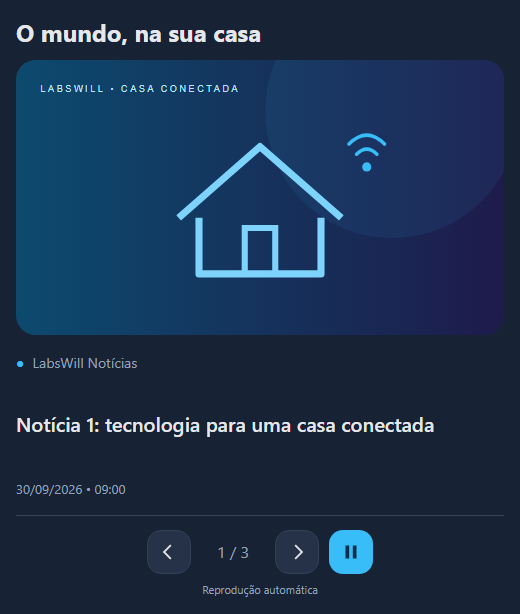
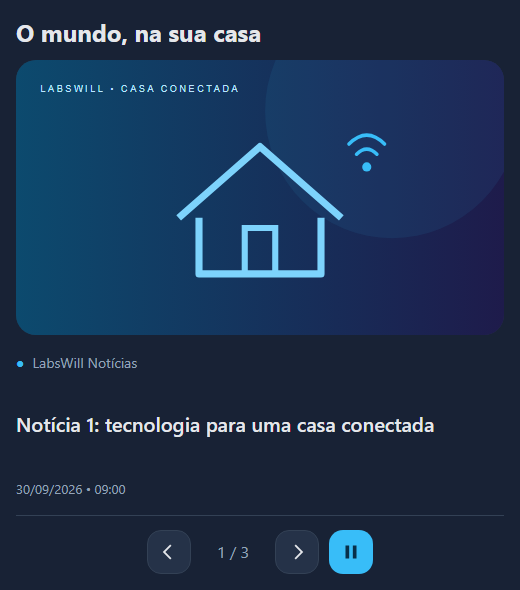
Credit original RSS News Card author and simplify card and feed defaults

diff --git a/rss-labswill-ha.js b/rss-labswill-ha.js
@@ -1,6 +1,35 @@
-// RSS LabsWill HA v2.1.0 — generated by npm run build
+// RSS LabsWill HA v2.1.1 — generated by npm run build
+/*
+Original project: RSS News Card for Home Assistant by suxlala
+Source: https://github.com/suxlala/rss-news-card/blob/main/LICENSE
+
+MIT License
+
+Copyright (c) 2026
+
+Permission is hereby granted, free of charge, to any person obtaining a copy
+of this software and associated documentation files (the "Software"), to deal
+in the Software without restriction, including without limitation the rights
+to use, copy, modify, merge, publish, distribute, sublicense, and/or sell
+copies of the Software, and to permit persons to whom the Software is
+furnished to do so, subject to the following conditions:
+
+The above copyright notice and this permission notice shall be included in all
+copies or substantial portions of the Software.
+
+THE SOFTWARE IS PROVIDED "AS IS", WITHOUT WARRANTY OF ANY KIND, EXPRESS OR
+IMPLIED, INCLUDING BUT NOT LIMITED TO THE WARRANTIES OF MERCHANTABILITY,
+FITNESS FOR A PARTICULAR PURPOSE AND NONINFRINGEMENT. IN NO EVENT SHALL THE
+AUTHORS OR COPYRIGHT HOLDERS BE LIABLE FOR ANY CLAIM, DAMAGES OR OTHER
+LIABILITY, WHETHER IN AN ACTION OF CONTRACT, TORT OR OTHERWISE, ARISING FROM,
+OUT OF OR IN CONNECTION WITH THE SOFTWARE OR THE USE OR OTHER DEALINGS IN THE
+SOFTWARE.
+
+*/
 /**
  * RSS News Card for Home Assistant
+ * Original project by suxlala: https://github.com/suxlala/rss-news-card
+ * LabsWill customization; original editor and localizations retained.
  * v1.5.2 - HACS-compatible, auto language detection, visual editor,
  *           configurable colors/fonts, visited article tracking
  */
@@ -2547,7 +2576,6 @@ class RssNewsCard extends HTMLElement {
         .navigation button:focus-visible{outline:3px solid var(--primary-color);outline-offset:3px}
         .navigation .pause{background:var(--primary-color);color:var(--text-primary-color,#fff);border-color:transparent}
         .navigation svg{width:22px;height:22px;fill:currentColor;pointer-events:none}
-        .playback-status{text-align:center;font-size:11px;color:var(--secondary-text-color);margin-top:8px;min-height:16px}
         @media(max-width:360px){.navigation{gap:6px}}
         .counter{min-width:64px;text-align:center;font-variant-numeric:tabular-nums;color:var(--secondary-text-color);white-space:nowrap}
         .headline{text-align:left;border-radius:0;padding:0;cursor:pointer}
@@ -2572,7 +2600,7 @@ class RssNewsCard extends HTMLElement {
         .empty{padding:30px 0;color:var(--secondary-text-color);text-align:center}
         @media(prefers-reduced-motion:reduce){.track{transition:none}}
       </style>
-      <ha-card><h2 hidden></h2><div class="viewport" tabindex="0" role="region" aria-label="Notícias em carrossel"><div class="track"></div></div><div class="navigation"><button class="previous" title="Notícia anterior" aria-label="Notícia anterior"><svg viewBox="0 0 24 24" aria-hidden="true"><path d="m14.7 5.3-1.4-1.4L5.2 12l8.1 8.1 1.4-1.4L8 12z"/></svg></button><span class="counter" aria-label="Posição da notícia"></span><button class="next" title="Próxima notícia" aria-label="Próxima notícia"><svg viewBox="0 0 24 24" aria-hidden="true"><path d="m9.3 5.3 1.4-1.4 8.1 8.1-8.1 8.1-1.4-1.4L16 12z"/></svg></button><button class="pause" aria-label="Pausar notícias">Ⅱ</button></div><div class="playback-status" role="status" aria-live="polite"></div></ha-card>`;
+      <ha-card><h2 hidden></h2><div class="viewport" tabindex="0" role="region" aria-label="Notícias em carrossel"><div class="track"></div></div><div class="navigation"><button class="previous" title="Notícia anterior" aria-label="Notícia anterior"><svg viewBox="0 0 24 24" aria-hidden="true"><path d="m14.7 5.3-1.4-1.4L5.2 12l8.1 8.1 1.4-1.4L8 12z"/></svg></button><span class="counter" aria-label="Posição da notícia"></span><button class="next" title="Próxima notícia" aria-label="Próxima notícia"><svg viewBox="0 0 24 24" aria-hidden="true"><path d="m9.3 5.3 1.4-1.4 8.1 8.1-8.1 8.1-1.4-1.4L16 12z"/></svg></button><button class="pause" aria-label="Pausar notícias">Ⅱ</button></div></ha-card>`;
     const root = this.shadowRoot;
     const title = root.querySelector('h2');
     title.textContent = this._config.title || ''; title.hidden = !this._config.title;
@@ -2663,10 +2691,7 @@ class RssNewsCard extends HTMLElement {
     pause.setAttribute('aria-label', label);
     pause.title = label;
     pause.setAttribute('aria-pressed', String(this._paused));
-    const status = this.shadowRoot.querySelector('.playback-status');
-    status.hidden = this._articles.length < 2;
-    status.textContent = this._paused ? (this._resumeAt ? `Pausado • retoma após ${this._config.pause_timeout}s sem interação` : 'Pausado • toque em play para retomar')
-      : Date.now() < this._idleUntil ? `Retoma após ${this._config.interaction_timeout}s sem interação` : 'Reprodução automática';
+
   }
   _interact() {
     this._idleUntil = Date.now() + this._config.interaction_timeout * 1000;
@@ -2859,7 +2884,7 @@ class RssNewsCardEditor extends HTMLElement {
         input:checked + .rss-slider{background:var(--primary-color);}
         input:checked + .rss-slider:before{transform:translateX(16px);}
       </style>
-      <div class="rss-ed"><small style="color:var(--secondary-text-color)">LabsWill Carousel • 2.1.0</small>
+      <div class="rss-ed"><small style="color:var(--secondary-text-color)">LabsWill Carousel • 2.1.1</small>
         <label>${t.ed.card_title}</label>
         <input type="text" id="ed-title" value="${c.title || ''}"/>
 
@@ -3135,6 +3160,6 @@ window.customCards = window.customCards || [];
 window.customCards.push({
   type: 'rss-news-card',
   name: 'RSS News Card',
-  description: 'LabsWill Carousel 2.1.0 • RSS com dimensoes configuraveis.',
+  description: 'LabsWill Carousel 2.1.1 • RSS com dimensoes configuraveis.',
   preview: true,
 });

diff --git a/src/carousel.js b/src/carousel.js
@@ -120,7 +120,6 @@ class RssNewsCard extends HTMLElement {
         .navigation button:focus-visible{outline:3px solid var(--primary-color);outline-offset:3px}
         .navigation .pause{background:var(--primary-color);color:var(--text-primary-color,#fff);border-color:transparent}
         .navigation svg{width:22px;height:22px;fill:currentColor;pointer-events:none}
-        .playback-status{text-align:center;font-size:11px;color:var(--secondary-text-color);margin-top:8px;min-height:16px}
         @media(max-width:360px){.navigation{gap:6px}}
         .counter{min-width:64px;text-align:center;font-variant-numeric:tabular-nums;color:var(--secondary-text-color);white-space:nowrap}
         .headline{text-align:left;border-radius:0;padding:0;cursor:pointer}
@@ -145,7 +144,7 @@ class RssNewsCard extends HTMLElement {
         .empty{padding:30px 0;color:var(--secondary-text-color);text-align:center}
         @media(prefers-reduced-motion:reduce){.track{transition:none}}
       </style>
-      <ha-card><h2 hidden></h2><div class="viewport" tabindex="0" role="region" aria-label="Notícias em carrossel"><div class="track"></div></div><div class="navigation"><button class="previous" title="Notícia anterior" aria-label="Notícia anterior"><svg viewBox="0 0 24 24" aria-hidden="true"><path d="m14.7 5.3-1.4-1.4L5.2 12l8.1 8.1 1.4-1.4L8 12z"/></svg></button><span class="counter" aria-label="Posição da notícia"></span><button class="next" title="Próxima notícia" aria-label="Próxima notícia"><svg viewBox="0 0 24 24" aria-hidden="true"><path d="m9.3 5.3 1.4-1.4 8.1 8.1-8.1 8.1-1.4-1.4L16 12z"/></svg></button><button class="pause" aria-label="Pausar notícias">Ⅱ</button></div><div class="playback-status" role="status" aria-live="polite"></div></ha-card>`;
+      <ha-card><h2 hidden></h2><div class="viewport" tabindex="0" role="region" aria-label="Notícias em carrossel"><div class="track"></div></div><div class="navigation"><button class="previous" title="Notícia anterior" aria-label="Notícia anterior"><svg viewBox="0 0 24 24" aria-hidden="true"><path d="m14.7 5.3-1.4-1.4L5.2 12l8.1 8.1 1.4-1.4L8 12z"/></svg></button><span class="counter" aria-label="Posição da notícia"></span><button class="next" title="Próxima notícia" aria-label="Próxima notícia"><svg viewBox="0 0 24 24" aria-hidden="true"><path d="m9.3 5.3 1.4-1.4 8.1 8.1-8.1 8.1-1.4-1.4L16 12z"/></svg></button><button class="pause" aria-label="Pausar notícias">Ⅱ</button></div></ha-card>`;
     const root = this.shadowRoot;
     const title = root.querySelector('h2');
     title.textContent = this._config.title || ''; title.hidden = !this._config.title;
@@ -236,10 +235,7 @@ class RssNewsCard extends HTMLElement {
     pause.setAttribute('aria-label', label);
     pause.title = label;
     pause.setAttribute('aria-pressed', String(this._paused));
-    const status = this.shadowRoot.querySelector('.playback-status');
-    status.hidden = this._articles.length < 2;
-    status.textContent = this._paused ? (this._resumeAt ? `Pausado • retoma após ${this._config.pause_timeout}s sem interação` : 'Pausado • toque em play para retomar')
-      : Date.now() < this._idleUntil ? `Retoma após ${this._config.interaction_timeout}s sem interação` : 'Reprodução automática';
+
   }
   _interact() {
     this._idleUntil = Date.now() + this._config.interaction_timeout * 1000;

diff --git a/src/editor.js b/src/editor.js
@@ -57,7 +57,7 @@ class RssNewsCardEditor extends HTMLElement {
         input:checked + .rss-slider{background:var(--primary-color);}
         input:checked + .rss-slider:before{transform:translateX(16px);}
       </style>
-      <div class="rss-ed"><small style="color:var(--secondary-text-color)">LabsWill Carousel • 2.1.0</small>
+      <div class="rss-ed"><small style="color:var(--secondary-text-color)">LabsWill Carousel • 2.1.1</small>
         <label>${t.ed.card_title}</label>
         <input type="text" id="ed-title" value="${c.title || ''}"/>
 
@@ -333,6 +333,6 @@ window.customCards = window.customCards || [];
 window.customCards.push({
   type: 'rss-news-card',
   name: 'RSS News Card',
-  description: 'LabsWill Carousel 2.1.0 • RSS com dimensoes configuraveis.',
+  description: 'LabsWill Carousel 2.1.1 • RSS com dimensoes configuraveis.',
   preview: true,
 });

diff --git a/src/preamble.js b/src/preamble.js
@@ -1,5 +1,7 @@
 /**
  * RSS News Card for Home Assistant
+ * Original project by suxlala: https://github.com/suxlala/rss-news-card
+ * LabsWill customization; original editor and localizations retained.
  * v1.5.2 - HACS-compatible, auto language detection, visual editor,
  *           configurable colors/fonts, visited article tracking
  */

diff --git a/scripts/fetch-rss.py b/scripts/fetch-rss.py
@@ -11,11 +11,16 @@ from urllib.parse import urljoin, urlparse
 import xml.etree.ElementTree as ET
 
 FEEDS = {
-    # Feeds Regionais e Gerais
-    'g1_araraquara': 'https://g1.globo.com/rss/g1/sp/sao-carlos-regiao/',
-    'g1_mundo': 'https://g1.globo.com/rss/g1/mundo/',
-
-    # Fontes adicionais podem ser definidas em /config/rss-feeds.json.
+    # PT-BR: Adicione seus feeds RSS no formato 'identificador': 'URL_DO_FEED'.
+    # Exemplo (remova o # e substitua pela URL real):
+    # 'minha_fonte': 'https://exemplo.com/feed.xml',
+    # Use o mesmo identificador no sensor: python3 /config/scripts/fetch-rss.py minha_fonte
+    # Alternativa: configure um objeto JSON em /config/rss-feeds.json com essas mesmas chaves e URLs.
+    # EN: Add your RSS feeds as 'identifier': 'FEED_URL'.
+    # Example (uncomment and replace with the real feed URL):
+    # 'my_feed': 'https://example.com/feed.xml',
+    # Use the same identifier in your sensor: python3 /config/scripts/fetch-rss.py my_feed
+    # Alternatively, define a JSON object in /config/rss-feeds.json using the same keys and URLs.
 }
 
 def fetch(url):

diff --git a/README.md b/README.md
@@ -6,6 +6,10 @@ Carrossel RSS para Home Assistant, pensado para tablets e painéis de automaçã
 controles confortáveis ao toque, notícias alternadas entre fontes, leitor integrado
 e QR Code para continuar no celular.
 
+Esta é uma personalização do **[RSS News Card for Home Assistant](https://github.com/suxlala/rss-news-card)**,
+criado por **[suxlala](https://github.com/suxlala)**. Os créditos pelo projeto original
+são de seu autor; a LabsWill mantém as adaptações do carrossel, controles e leitor.
+
 ![Prévia do card](docs/preview.png)
 
 [Instalar pelo HACS](https://my.home-assistant.io/redirect/hacs_repository/?owner=Willyanlz&repository=rss-labswill-ha&category=plugin)
@@ -44,9 +48,12 @@ Se você já tem sensores com o atributo `articles`, pode continuar usando-os.
 Em uma instalação nova:
 
 1. Copie [scripts/fetch-rss.py](scripts/fetch-rss.py) para `/config/scripts/fetch-rss.py`.
-2. Mescle [examples/sensors.yaml](examples/sensors.yaml) no `configuration.yaml`.
-3. Verifique a configuração e reinicie o Home Assistant.
-4. Confirme os IDs reais dos sensores nas Ferramentas de desenvolvedor. Os IDs
+2. Cadastre seus feeds em `FEEDS` no leitor ou em `/config/rss-feeds.json`, conforme
+   o exemplo abaixo. O leitor é distribuído sem fontes predefinidas, com instruções PT-BR/EN.
+3. Mescle [examples/sensors.yaml](examples/sensors.yaml) no `configuration.yaml`,
+   usando o mesmo identificador de feed que você cadastrou.
+4. Verifique a configuração e reinicie o Home Assistant.
+5. Confirme os IDs reais dos sensores nas Ferramentas de desenvolvedor. Os IDs
    podem ter sufixos se entidades com esses nomes já existirem.
 
 O leitor usa somente a biblioteca padrão do Python 3, disponível no HAOS.
@@ -54,12 +61,14 @@ Para configurar outras fontes sem editar o leitor, crie `/config/rss-feeds.json`
 
 ```json
 {
-  "minha_fonte": "https://exemplo.com/feed.xml"
+  "minha_fonte": "https://exemplo.com/feed.xml",
+  "outra_fonte": "https://example.com/rss.xml"
 }
 ```
 
-Use `python3 /config/scripts/fetch-rss.py minha_fonte` no sensor. O leitor suporta
-RSS XML com itens `item`, não Atom; retorna até 20 notícias por fonte. A atualidade
+Use `python3 /config/scripts/fetch-rss.py minha_fonte` no sensor. Substitua os
+endereços ilustrativos acima pelos feeds desejados. O leitor suporta RSS XML
+com itens `item`, não Atom; retorna até 20 notícias por fonte. A atualidade
 das notícias depende do feed. Os portais podem mudar URLs ou bloquear requisições.
 
 ## Seu primeiro card
@@ -77,10 +86,10 @@ show_source: true
 show_date: true
 image_fit: contain
 sources:
-  - entity: sensor.noticias_g1_araraquara
-    name: G1 Região
-  - entity: sensor.noticias_g1_mundo
-    name: G1 Mundo
+  - entity: sensor.noticias_minha_fonte
+    name: Minha Fonte
+  - entity: sensor.noticias_outra_fonte
+    name: Outra Fonte
 ```
 
 O card ordena as notícias dentro de cada fonte, alterna as fontes e remove links
@@ -167,8 +176,8 @@ gere o bundle, rode os testes, faça commit e envie uma tag correspondente:
 
 ```sh
 git push origin main
-git tag v2.1.1
-git push origin v2.1.1
+git tag v2.1.2
+git push origin v2.1.2
 ```
 
 O workflow só publica se os testes passarem e a tag coincidir com `package.json`.
@@ -176,7 +185,10 @@ Mantenha o repositório público e GitHub Actions habilitado.
 
 ## Créditos e limites de validação
 
-Evolução da personalização RSS News Card utilizada na central LabsWill.
+Projeto original: **[RSS News Card for Home Assistant](https://github.com/suxlala/rss-news-card)**,
+por **[suxlala](https://github.com/suxlala)**, distribuído sob licença MIT.
+O [aviso original de licença](docs/LICENSE-rss-news-card.txt) também acompanha o bundle.
+Esta personalização partiu da versão 1.5.2, preservando partes do editor e traduções.
 O gerador QR incorporado é **qrcode-generator 1.4.4**, de Kazuhiko Arase, sob MIT;
 seu aviso original permanece no bundle. O editor e as traduções foram preservados
 da base existente; não se atribui aqui uma nova licença a código de terceiros.

diff --git a/CHANGELOG.md b/CHANGELOG.md
@@ -1,5 +1,12 @@
 # Changelog
 
+## 2.1.1 — 2026-09-30
+
+- Removido o texto de status abaixo dos controles; mantidos os rótulos acessíveis do botão play/pause.
+- Créditos ao autor original suxlala e link para RSS News Card no README exibido pelo HACS.
+- Leitor distribuído sem feeds predefinidos, com instruções em português e inglês.
+- Exemplos de configuração genéricos para cada instalação cadastrar suas próprias fontes.
+
 ## 2.1.0 — 2026-09-30
 
 - Controles de 44 px com ícones vetoriais, foco visível e feedback de reprodução.
